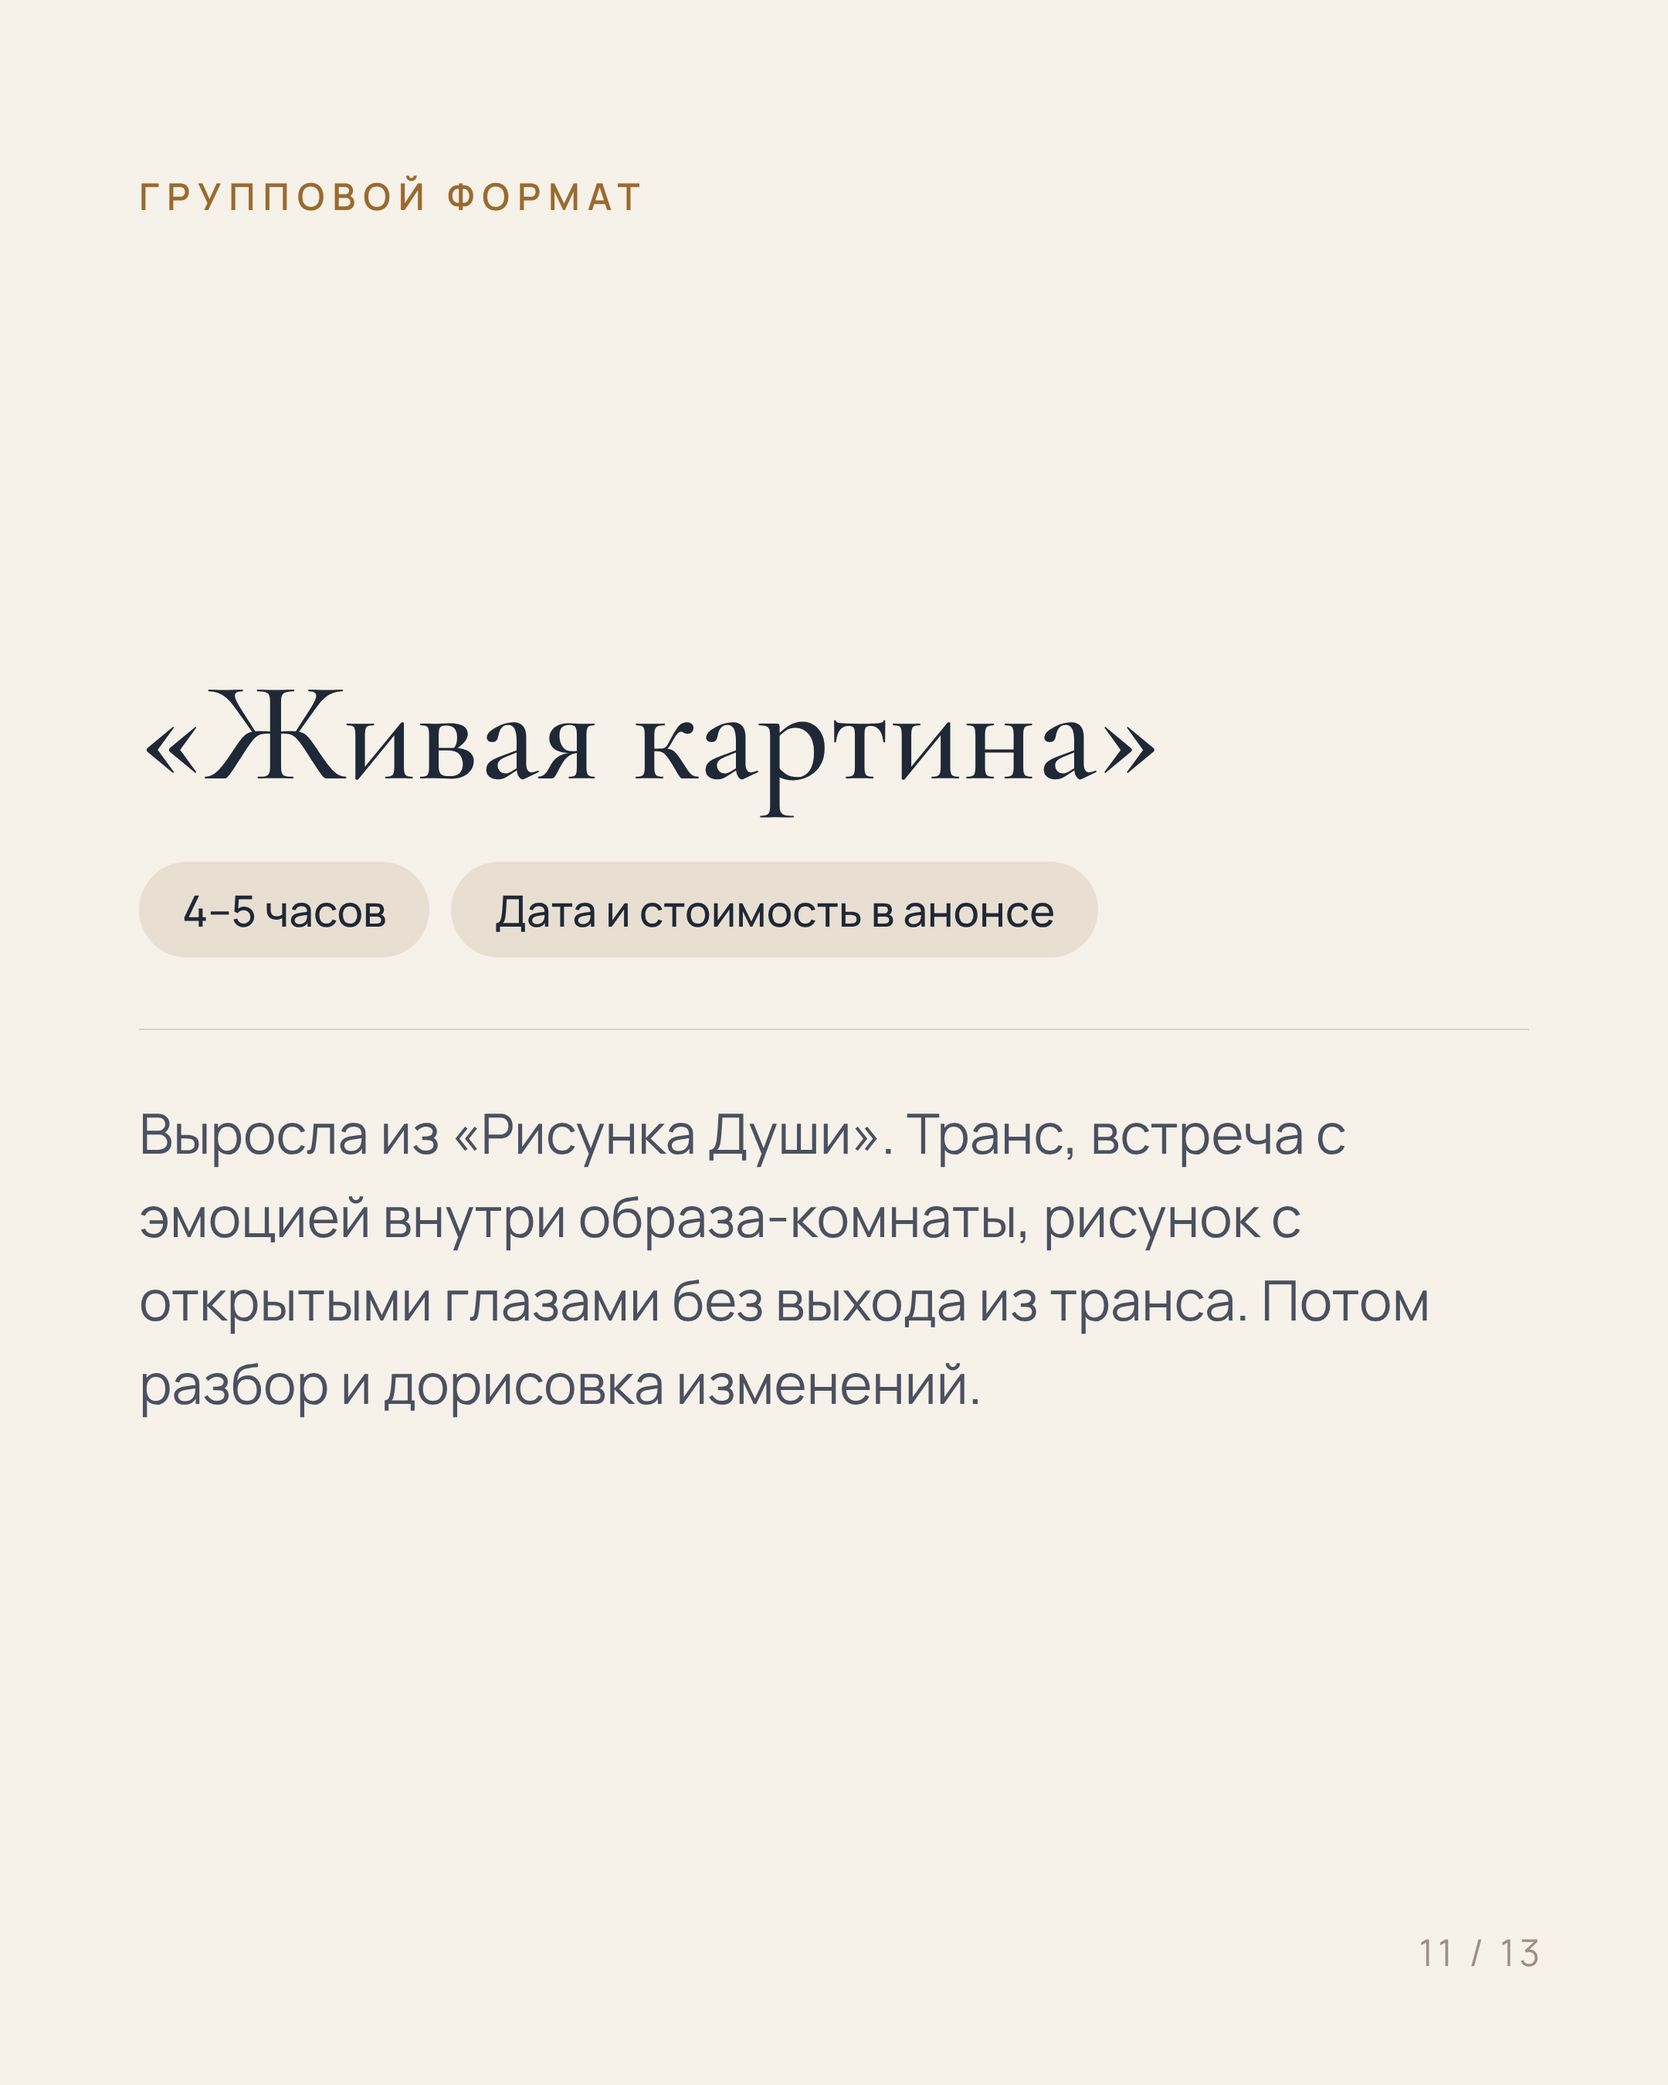
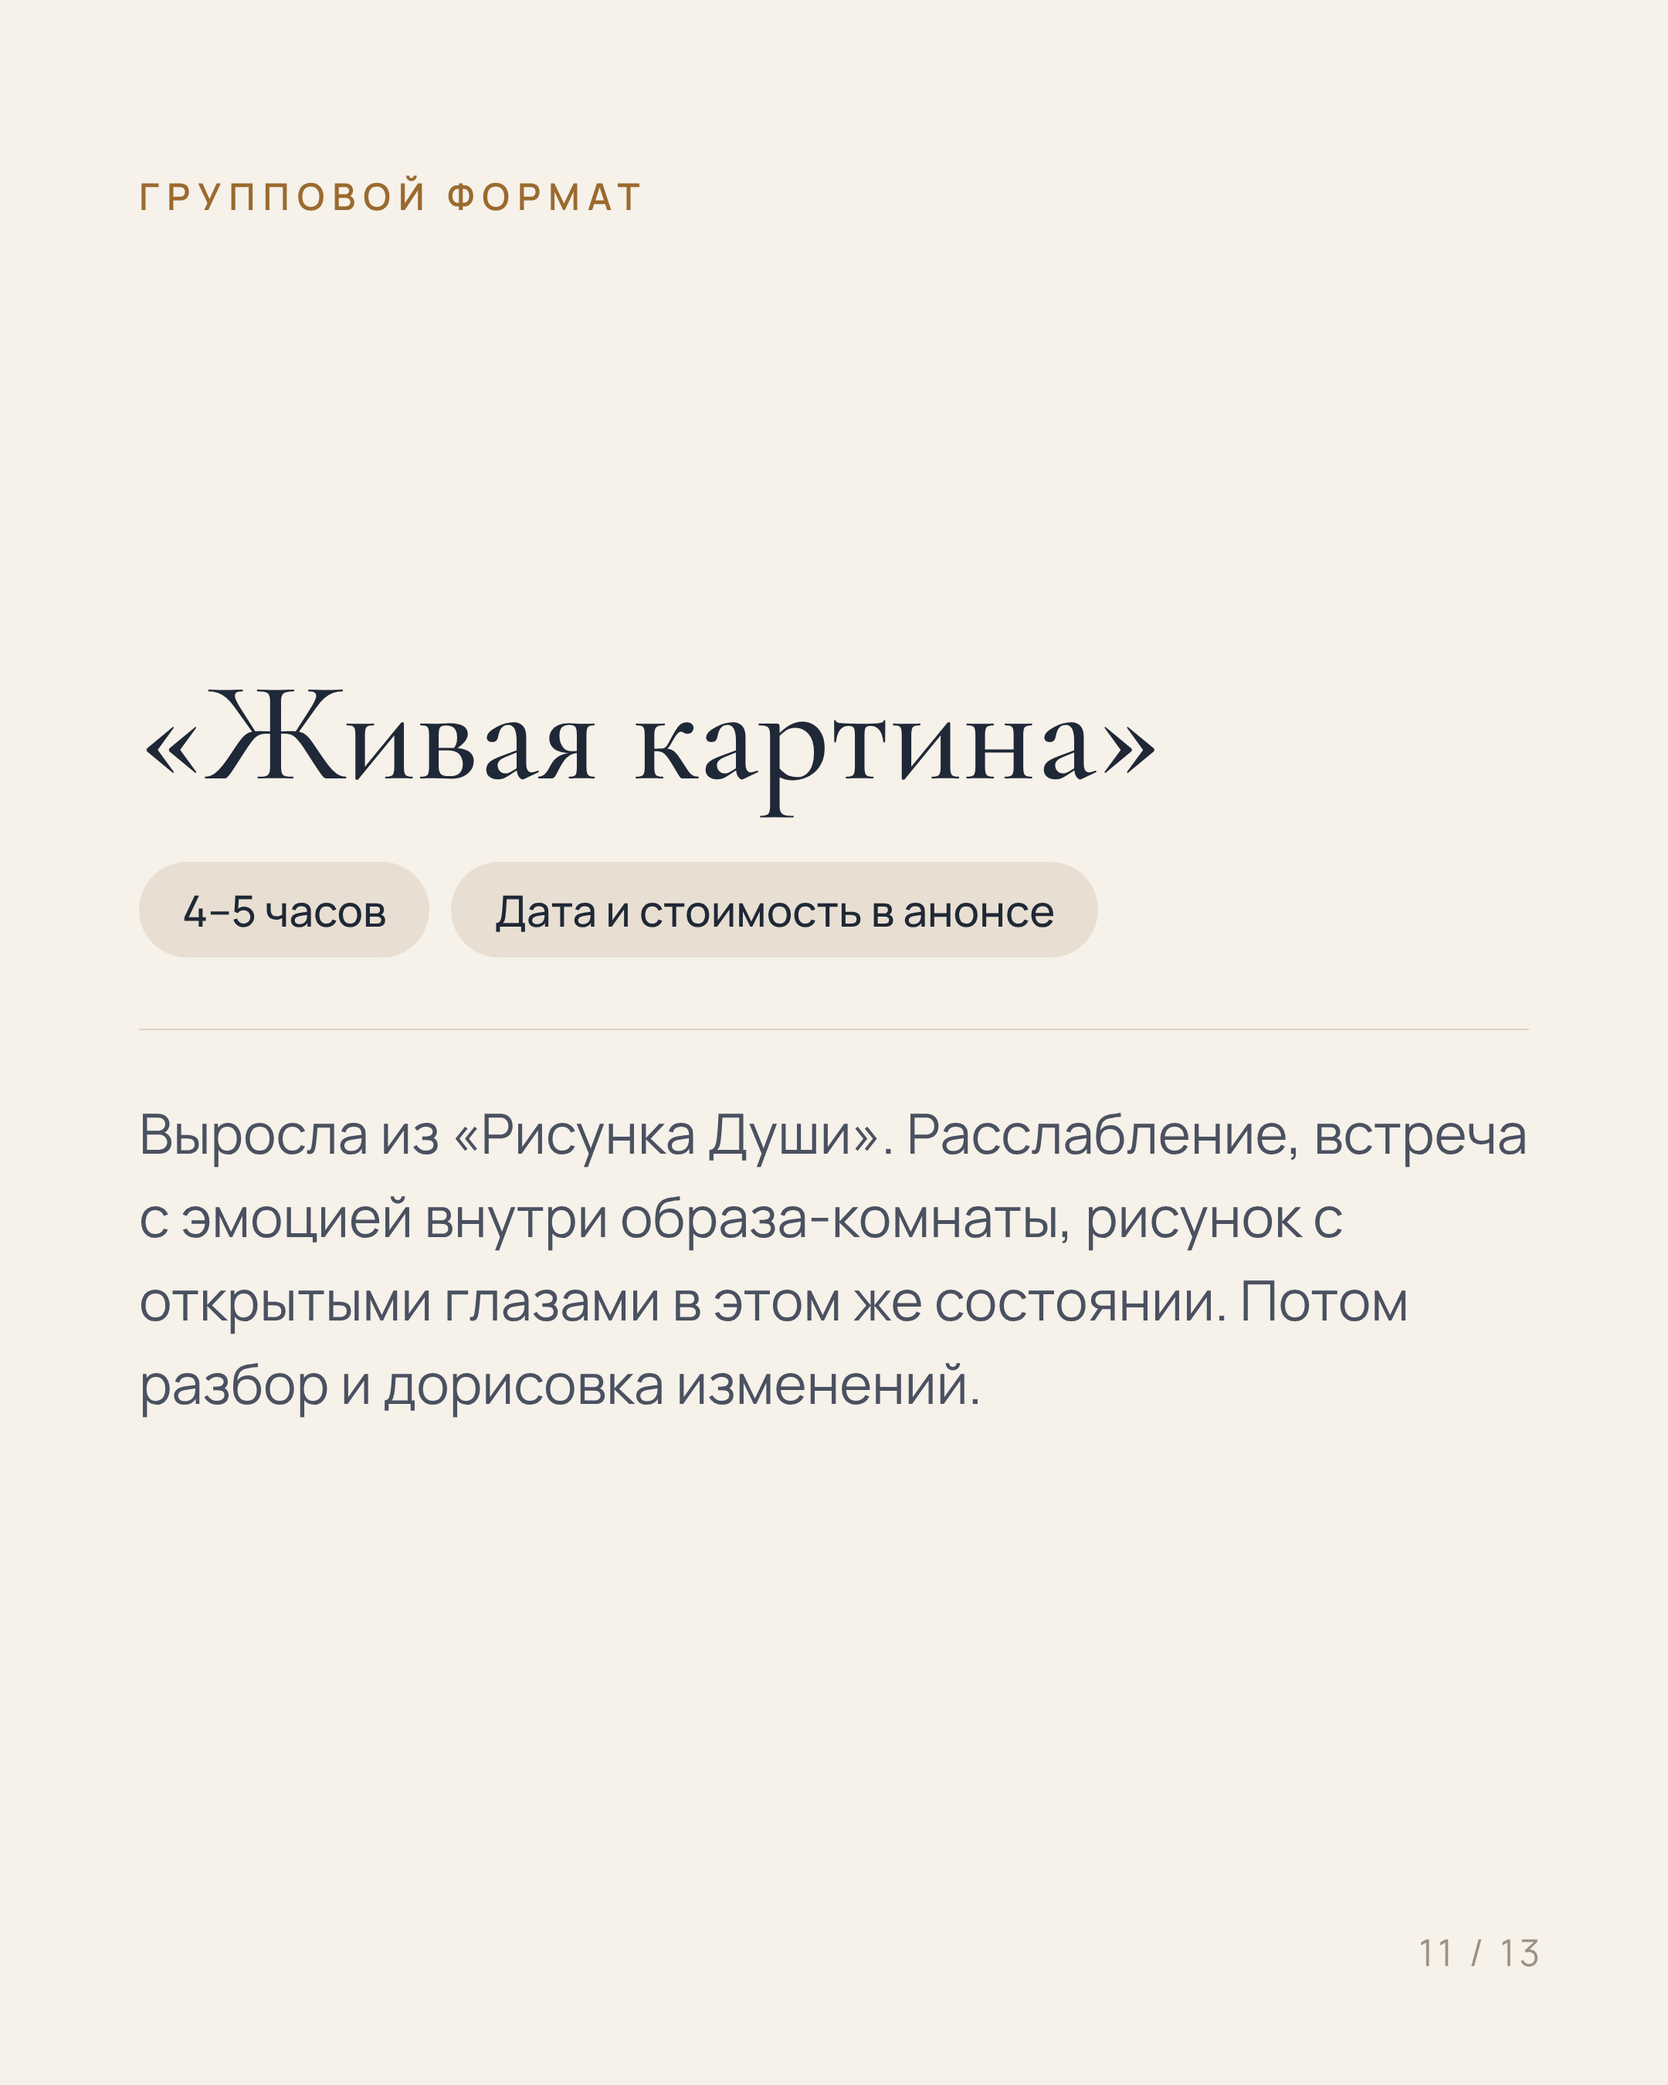
Посты про форматы: «Живая картина» без слова «транс», обновлён слайд 11
Claude-Session: https://claude.ai/code/session_0184jnC38uCo5w2FiwWyrrJP

Changed region(s): [[0.0931, 0.5289, 0.9306, 0.6533]]

diff --git a/promo/formaty/build.js b/promo/formaty/build.js
@@ -62,7 +62,7 @@ fmt(7,'l','Разовый сеанс','Сеанс гипноза',['3 часа',
 fmt(8,'d','Регрессия','«Путешествие<br>к Истоку»',['4,5 часа'],'22 500','Для боли, у которой нет объяснения: там, где логика и обычная терапия упираются в стену. Работаем со сценариями, которые повторяются в роду из поколения в поколение.'),
 fmt(9,'l','Программа','«Фундамент силы»',['3 сессии по 3 часа','Поддержка между встречами'],'37 500','Детская травма, отношения с родителями, старые реакции. Цель: внутренняя опора, на которую можно встать в любой ситуации.','12 500 ₽ за сессию'),
 fmt(10,'d','Программа','«Полная пересборка<br>вашей души»',['6 сессий по 3 часа'],'72 000','Продолжение «Фундамента силы». Тревога и гнев, родовые программы, страх, который становится ресурсом, выход из сценария жертвы, карта жизни и финальная настройка.','12 000 ₽ за сессию'),
-fmt(11,'l','Групповой формат','«Живая картина»',['4–5 часов','Дата и стоимость в анонсе'],null,'Выросла из «Рисунка Души». Транс, встреча с эмоцией внутри образа-комнаты, рисунок с открытыми глазами без выхода из транса. Потом разбор и дорисовка изменений.'),
+fmt(11,'l','Групповой формат','«Живая картина»',['4–5 часов','Дата и стоимость в анонсе'],null,'Выросла из «Рисунка Души». Расслабление, встреча с эмоцией внутри образа-комнаты, рисунок с открытыми глазами в этом же состоянии. Потом разбор и дорисовка изменений.'),
 `<div class="f d">${arc}<div class="eb">Честно</div><div class="body">
 <div class="h" style="font-size:92px">Чего я не делаю</div><div style="margin-top:30px">
 ${['Не принимаю решений за вас и не беру ответственность за вашу жизнь','Не заменяю врача: если есть медицинский диагноз, наша работа идёт рядом с лечением','Не обещаю быстрых изменений: тело меняется в своём темпе'].map((x,j)=>`<div class="row" style="${j==2?'border-bottom:none':''}"><div class="num" style="font-size:72px;color:${G};width:50px">${j+1}</div><div class="t" style="color:#F3EEE6">${x}</div></div>`).join('')}</div></div>${pg(12)}</div>`,

diff --git a/posts/formaty_i_stoimost.md b/posts/formaty_i_stoimost.md
@@ -36,6 +36,6 @@
 8. «Фундамент силы». 3 сессии по 3 часа · поддержка между встречами · 37 500 ₽ (12 500 ₽ за сессию). Детская травма, отношения с родителями, старые реакции. Цель: внутренняя опора, на которую можно встать в любой ситуации.
 9. «Полная пересборка вашей души». 6 сессий по 3 часа · 72 000 ₽ (12 000 ₽ за сессию). Продолжение «Фундамента силы». Тревога и гнев, родовые программы, страх, который становится ресурсом, выход из сценария жертвы, карта жизни и финальная настройка.
 10. Курс «Кто ведёт поезд?». 5 видеоуроков · 5 000 ₽ · в записи. Пять вагонов из детства: фундамент, травма, дефициты детства, перезагрузка, осознанность. Чтобы понять, какие детские выводы ведут ваш поезд, и вернуться в кабину машиниста. Можно начать самостоятельно и в своём ритме. О старте расскажу в канале.
-11. «Живая картина». Групповой формат · 4–5 часов · дата и стоимость в анонсе. Выросла из «Рисунка Души». Транс, встреча с эмоцией внутри образа-комнаты, рисунок с открытыми глазами без выхода из транса. Потом разбор и дорисовка изменений.
+11. «Живая картина». Групповой формат · 4–5 часов · дата и стоимость в анонсе. Выросла из «Рисунка Души». Расслабление, встреча с эмоцией внутри образа-комнаты, рисунок с открытыми глазами в этом же состоянии. Потом разбор и дорисовка изменений.
 12. Чего я не делаю. Не принимаю решений за вас и не беру ответственность за вашу жизнь. Не заменяю врача: если есть медицинский диагноз, наша работа идёт рядом с лечением. Не обещаю быстрых изменений: тело меняется в своём темпе.
 13. Закрытие. Подходящий формат подскажу на бесплатной диагностике. Пишите мне в Telegram: @Victory_Valueva

diff --git a/posts/formaty_instagram.md b/posts/formaty_instagram.md
@@ -48,7 +48,7 @@
 Шесть отдельных сеансов стоили бы 90 000 ₽.
 
 МАСТЕР-КЛАСС «ЖИВАЯ КАРТИНА» · групповой · 4–5 часов
-Вырос из «Рисунка Души». Входим в лёгкий транс, встречаемся с эмоцией внутри образа-комнаты и рисуем с открытыми глазами, не выходя из транса. Потом разбираем рисунок и дорисовываем изменения. Дату и стоимость расскажу отдельно.
+Вырос из «Рисунка Души». Расслабляемся, встречаемся с эмоцией внутри образа-комнаты и рисуем с открытыми глазами, не выходя из этого состояния. Потом разбираем рисунок и дорисовываем изменения. Дату и стоимость расскажу отдельно.
 
 ЧЕГО Я НЕ ДЕЛАЮ
 Не принимаю решений за вас. Не заменяю врача: если есть медицинский диагноз, наша работа идёт рядом с лечением. И не обещаю, что всё изменится за одну встречу. Тело меняется в своём темпе, и я иду в нём вместе с вами.

diff --git a/posts/formaty_post_podrobno.md b/posts/formaty_post_podrobno.md
@@ -53,7 +53,7 @@
 
 **Мастер-класс «Живая картина», групповой, 4–5 часов**
 
-Вырос из «Рисунка Души». Входим в лёгкий транс, встречаемся с эмоцией внутри образа-комнаты и рисуем с открытыми глазами, не выходя из транса. Потом разбираем рисунок и дорисовываем изменения. Дату и стоимость расскажу в отдельном анонсе.
+Вырос из «Рисунка Души». Расслабляемся, встречаемся с эмоцией внутри образа-комнаты и рисуем с открытыми глазами, не выходя из этого состояния. Потом разбираем рисунок и дорисовываем изменения. Дату и стоимость расскажу в отдельном анонсе.
 
 **Чего я не делаю**
 
